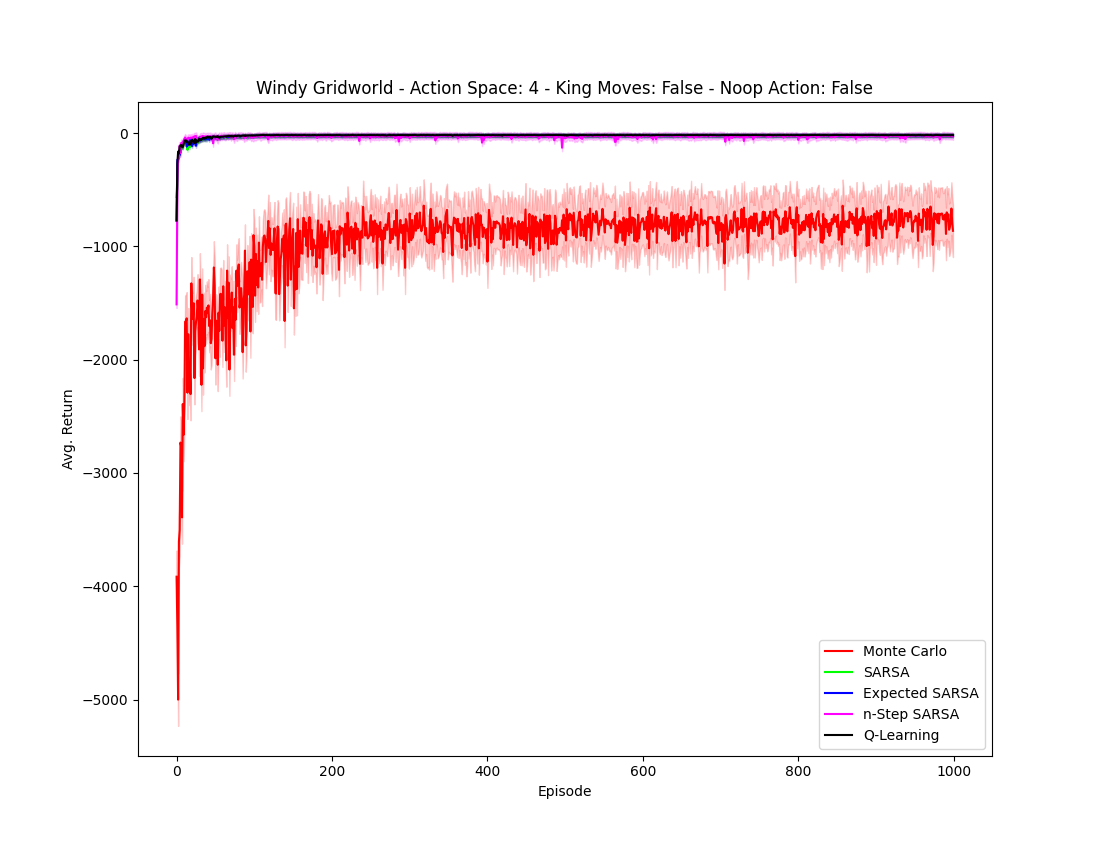
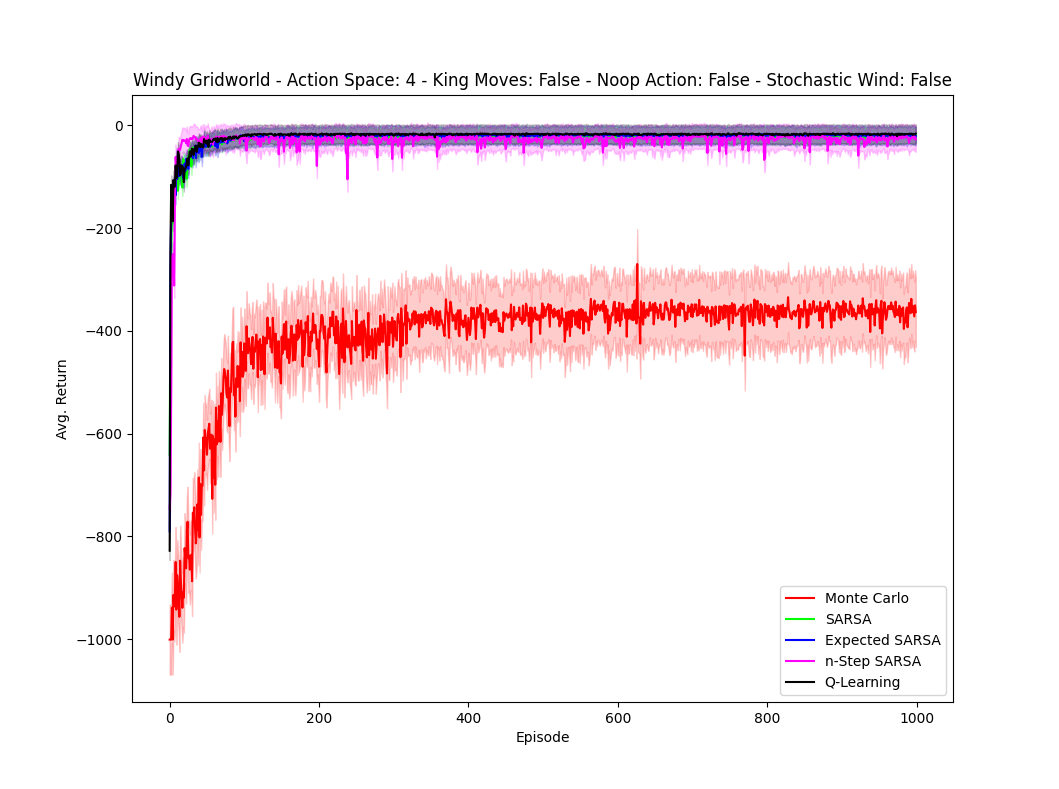
setup exp

diff --git a/code/lib/temporal_difference/algorithms.py b/code/lib/temporal_difference/algorithms.py
@@ -6,7 +6,7 @@ Algorithms for TD learning
 '''
 
 from collections import defaultdict
-from typing import Dict, List, Tuple
+from typing import Dict, List, Optional, Tuple
 import numpy as np
 
 from gym import Env
@@ -21,10 +21,15 @@ def sarsa(
         alpha: float,
         epsilon: float,
         gamma: float,
-        n_episodes: int) -> Dict:
-    Q = defaultdict(lambda: np.zeros(env.action_space.n))
-    V = defaultdict(lambda: 0)
-    V_targets = []
+        n_episodes: int,
+        learning: bool = True,
+        Q: Optional[Dict[str, np.ndarray]] = None,
+        V: Optional[Dict[str, float]] = None) -> Dict:
+    if Q is None:
+        Q = defaultdict(lambda: np.zeros(env.action_space.n))
+    if V is None:
+        V = defaultdict(lambda: .0)
+    V_targets = defaultdict(lambda: [])
 
     policy = create_epsilon_policy(Q, epsilon)
     returns = np.zeros(n_episodes)
@@ -39,11 +44,11 @@ def sarsa(
             s_prime, r, done, _ = env.step(a)
             G = (gamma * G) + r
             a_prime = policy(s_prime)
-            Q[s][a] = Q[s][a] + (alpha * (r + (gamma * Q[s_prime][a_prime]) - Q[s][a]))
-            
             V_target = r + (gamma * V[s_prime])
-            V[s] = V[s] + (alpha * (V_target - V[s]))
-            V_targets.append(V_target)
+            if learning:
+                Q[s][a] = Q[s][a] + (alpha * (r + (gamma * Q[s_prime][a_prime]) - Q[s][a]))
+                V[s] = V[s] + (alpha * (V_target - V[s]))
+            V_targets[s].append(V_target)
 
             s = s_prime
             a = a_prime
@@ -99,9 +104,15 @@ def n_step_sarsa(
         alpha: float,
         epsilon: float,
         gamma: float,
-        n_episodes: int) -> Dict:
-    Q = defaultdict(lambda: np.zeros(env.action_space.n))
-    V = defaultdict(lambda: 0)
+        n_episodes: int,
+        learning: bool = True,
+        Q: Optional[Dict[str, np.ndarray]] = None,
+        V: Optional[Dict[str, float]] = None) -> Dict:
+    if Q is None:
+        Q = defaultdict(lambda: np.zeros(env.action_space.n))
+    if V is None:
+        V = defaultdict(lambda: .0)
+    V_targets = defaultdict(lambda: [])
     policy = create_epsilon_policy(Q, epsilon)
     returns = np.zeros(n_episodes)
     episode_lengths = np.zeros(n_episodes)
@@ -142,11 +153,20 @@ def n_step_sarsa(
             if tau >= 0:
                 G = compute_gain(tau, obs)
                 s_tau, a_tau, _ = obs[tau]
-                Q[s_tau][a_tau] = Q[s_tau][a_tau] + (alpha * (G - Q[s_tau][a_tau]))
+                if learning:
+                    Q[s_tau][a_tau] = Q[s_tau][a_tau] + (alpha * (G - Q[s_tau][a_tau]))
+                    V[s_tau] = V[s_tau] + (alpha * (G - V[s_tau]))
+                V_targets[s_tau].append(G)
             t += 1
         returns[e] = ep_G
         episode_lengths[e] = t
-    return {'Q': Q, 'returns': returns, 'episode_lengths': episode_lengths}
+    return {
+        'Q': Q,
+        'V': V,
+        'V_targets': V_targets,
+        'returns': returns,
+        'episode_lengths': episode_lengths
+    }
 
 
 def q_learning(

diff --git a/code/src/temporal_difference/run_bias_variance.py b/code/src/temporal_difference/run_bias_variance.py
@@ -1,0 +1,107 @@
+# Greg Attra
+# 03/06/2022
+
+'''
+Executable for evaluating bias/variance tradeoff
+'''
+
+from collections import defaultdict
+from dataclasses import dataclass
+import numpy as np
+
+from typing import Callable, Dict, List
+from lib.temporal_difference.algorithms import sarsa
+from lib.temporal_difference.windy_gridworld import WindyGridworld, windy_gridworld_1
+
+
+ALPHA = .5
+GAMMA = 1.
+EPS = .1
+N_EPISODES = int(10**3)
+N_TRIALS = 10
+N_STEPS = 4
+N_EVAL_EPS = 100
+
+
+@dataclass
+class Experiment:
+    algo_name: str
+    algo: Callable[[Dict[str, np.ndarray], Dict[str, float], int, bool], Dict]
+    n_episodes: int
+    Q: Dict[str, np.ndarray]
+    V: Dict[str, float]
+    V_targets: Dict[str, np.ndarray]
+
+
+def td_0(
+        Q: Dict[str, np.ndarray],
+        V: Dict[str, float],
+        n_eps: int,
+        learning: bool = True) -> Dict:
+    pass
+
+
+def n_step_td(
+        Q: Dict[str, np.ndarray],
+        V: Dict[str, float],
+        n_eps: int,
+        learning: bool = True) -> Dict:
+    pass
+
+
+def mc_control(
+        Q: Dict[str, np.ndarray],
+        V: Dict[str, float],
+        n_eps: int,
+        learning: bool = True) -> Dict:
+    pass
+
+
+def main():
+    # generate fixed policy
+    wind_grid = windy_gridworld_1()
+    env = WindyGridworld(wind_grid)
+    results = sarsa(env, ALPHA, EPS, GAMMA, N_EPISODES)
+    Q = results['Q']
+
+    # generate training experiments / learn V(S)
+    algorithms = [
+        ('TD(0)', td_0),
+        ('n-Step Control', n_step_td)
+        ('MC Control', mc_control)
+    ]
+    n_episodes = [1, 10, 50]
+    training_experiments: List[Experiment] = []
+    for algo_name, algo in algorithms:
+        for n_eps in n_episodes:
+            V = defaultdict(lambda: .0)
+            results = algo(Q, V, n_eps)
+            train_experiment = Experiment(
+                algo_name=algo_name,
+                algo=algo,
+                n_episodes=n_eps,
+                Q=Q,
+                V=results['V'],
+                V_targets=results['V_targets'])
+            training_experiments.append(train_experiment)
+    
+    # run evaluation experiments using learned V(S)
+    eval_experiments: List[Experiment] = []
+    for train_experiment in training_experiments:
+        results = train_experiment.algo(
+            Q,
+            train_experiment.V,
+            N_EVAL_EPS,
+            False)
+        eval_experiment = Experiment(
+            algo_name=train_experiment.algo_name,
+            algo=train_experiment.algo,
+            n_episodes=100,
+            Q=Q,
+            V=train_experiment.V,
+            V_targets=results['V_targets'])
+        eval_experiments.append(eval_experiment)
+
+
+if __name__ == '__main__':
+    main()

diff --git a/code/lib/monte_carlo/algorithms.py b/code/lib/monte_carlo/algorithms.py
@@ -1,5 +1,5 @@
 import gym
-from typing import Callable, Tuple
+from typing import Callable, Dict, Optional, Tuple
 from collections import defaultdict
 from tqdm import trange
 import numpy as np
@@ -34,16 +34,25 @@ def generate_episode(env: gym.Env, policy: Callable, es: bool = False):
 
 
 def on_policy_mc_control_epsilon_soft(
-    env: gym.Env, num_episodes: int, gamma: float, epsilon: float) -> np.ndarray:
-    Q = defaultdict(lambda: np.zeros(env.action_space.n))
+        env: gym.Env,
+        num_episodes: int,
+        gamma: float,
+        epsilon: float,
+        learning: bool = True,
+        Q: Optional[Dict[str, np.ndarray]] = None,
+        V: Optional[Dict[str, float]] = None) -> np.ndarray:
+    if Q is None:
+        Q = defaultdict(lambda: np.zeros(env.action_space.n))
+    if V is None:
+        V = defaultdict(lambda: .0)
     N = defaultdict(lambda: np.zeros(env.action_space.n))
     V = defaultdict(lambda: 0)
+    V_targets = defaultdict(lambda: [])
 
-    policy = create_epsilon_policy(Q, .5)
+    policy = create_epsilon_policy(Q, epsilon)
     returns = np.zeros(num_episodes)
     episode_lengths = np.zeros(num_episodes)
     
-    V_targets = []
     for i in trange(num_episodes, desc="Episode", leave=False):
         episode = generate_episode(env, policy)
         G = 0
@@ -53,8 +62,10 @@ def on_policy_mc_control_epsilon_soft(
             G = (gamma * G) + r
             V_targets.append(G)
             N[s][a] = N[s][a] + 1
-            Q[s][a] = Q[s][a] + ((1. / N[s][a]) * (G - Q[s][a]))
-            V[s] = V[s] + ((1./N[s]) * (G - V[s]))
+            if learning:
+                Q[s][a] = Q[s][a] + ((1. / N[s][a]) * (G - Q[s][a]))
+                V[s] = V[s] + ((1./np.sum(N[s])) * (G - V[s]))
+            V_targets[s].append(G)
 
         returns[i] = G
         episode_lengths[i] = len(episode)

diff --git a/code/lib/temporal_difference/windy_gridworld.py b/code/lib/temporal_difference/windy_gridworld.py
@@ -35,7 +35,7 @@ class WindyGridworld(Env):
             king_moves: bool = False,
             noop_action: bool = False,
             stochastic_wind: bool = False,
-            max_t: int = 5000) -> None:
+            max_t: int = 1000) -> None:
         super().__init__()
         self.wind_grid = wind_grid
         self.pos = (0, 0)

diff --git a/code/src/temporal_difference/run_windy_gridworld.py b/code/src/temporal_difference/run_windy_gridworld.py
@@ -66,7 +66,7 @@ def run_monte_carlo_control(env: WindyGridworld):
         N_TRIALS,
         N_EPISODES,
         GAMMA,
-        EPS)
+        .25)
     return returns, episode_lengths
 
 
